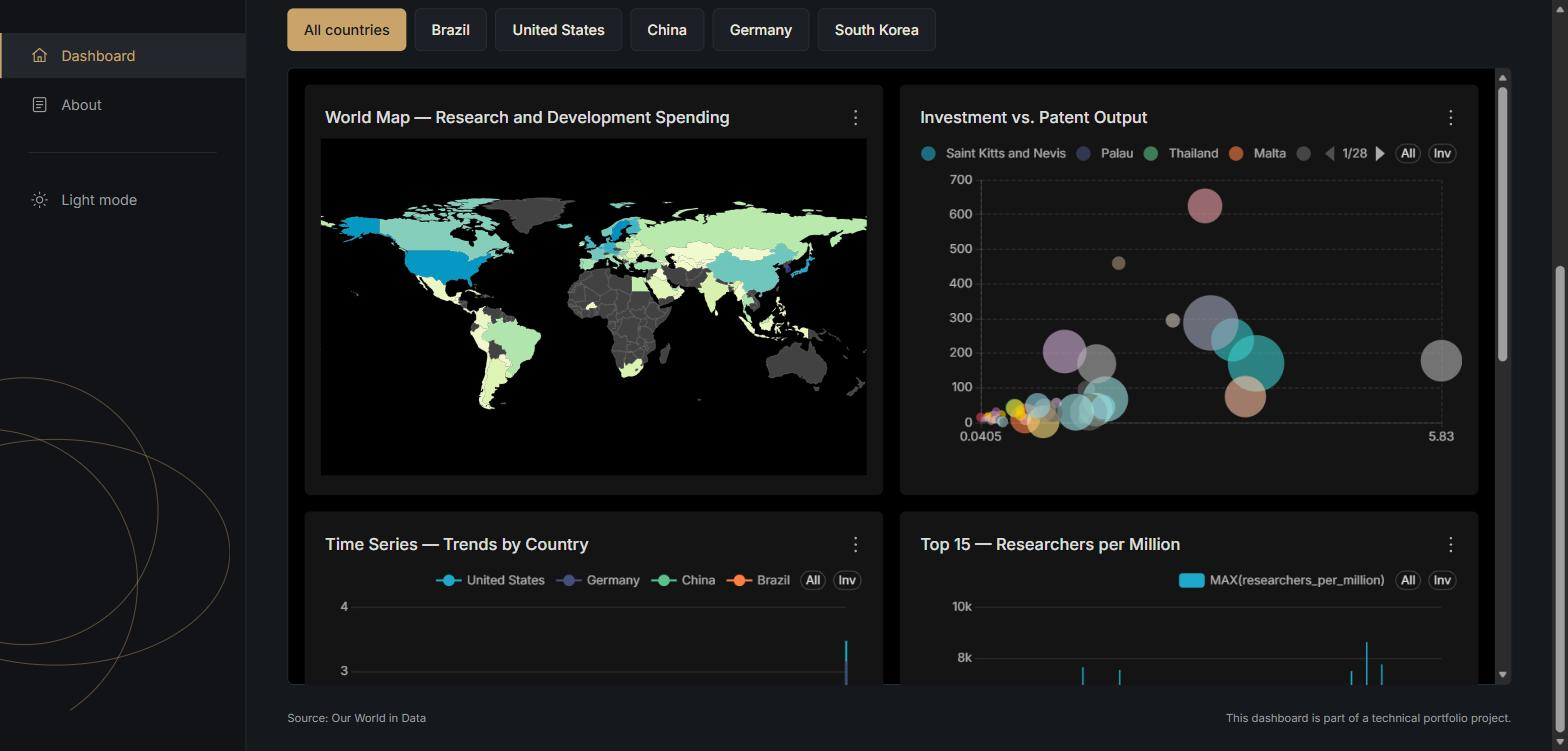
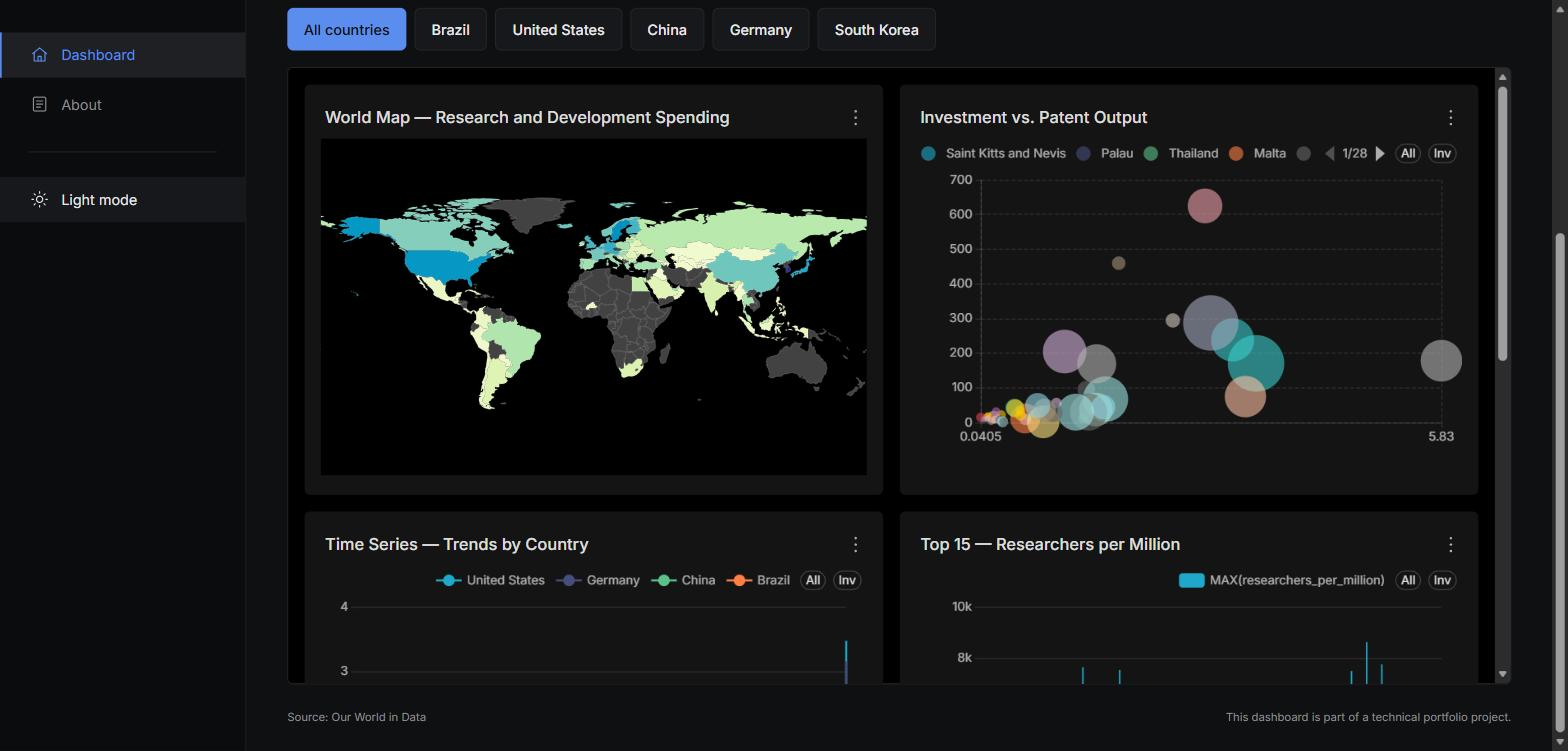
feat: updating layout and readme.md

diff --git a/frontend/src/index.css b/frontend/src/index.css
@@ -4,31 +4,29 @@
 
 :root,
 [data-theme='dark'] {
-  --canvas: #15181d;
-  --sidebar: #111317;
-  --surface: #1c2026;
-  --surface-hover: #22272e;
-  --line: #2a2f37;
-  --ink: #ece7dd;
-  --ink-muted: #9b9d9f;
-  --gold: #c9a36a;
-  --positive: #5fb88a;
-  --panel: #f4f1ea;
-  --hero: #0b0d10;
+  --canvas: #0f1012;
+  --sidebar: #0b0c0e;
+  --surface: #17181b;
+  --surface-hover: #1f2023;
+  --line: #27282c;
+  --ink: #e8e8ea;
+  --ink-muted: #8d8e92;
+  --accent: #5b8def;
+  --positive: #4fae7c;
+  --hero: #0b0c0e;
 }
 
 [data-theme='light'] {
-  --canvas: #f3f0e9;
-  --sidebar: #ebe6dc;
-  --surface: #fbf9f5;
-  --surface-hover: #e3ddd1;
-  --line: #d9d2c4;
-  --ink: #1d2025;
-  --ink-muted: #6b6a66;
-  --gold: #9c7437;
+  --canvas: #f5f1e8;
+  --sidebar: #ece6d8;
+  --surface: #faf7f0;
+  --surface-hover: #efe9db;
+  --line: #ddd4c0;
+  --ink: #1f1b16;
+  --ink-muted: #726a5c;
+  --accent: #3b63d6;
   --positive: #2f8a5c;
-  --panel: #ffffff;
-  --hero: #f1ece3;
+  --hero: #ece6d8;
 }
 
 @theme inline {
@@ -39,12 +37,10 @@
   --color-line: var(--line);
   --color-ink: var(--ink);
   --color-ink-muted: var(--ink-muted);
-  --color-gold: var(--gold);
+  --color-accent: var(--accent);
   --color-positive: var(--positive);
-  --color-panel: var(--panel);
   --color-hero: var(--hero);
   --font-sans: 'Inter', ui-sans-serif, system-ui, sans-serif;
-  --font-serif: 'Cormorant Garamond', ui-serif, Georgia, serif;
 }
 
 body {

diff --git a/frontend/src/components/home/AboutView.tsx b/frontend/src/components/home/AboutView.tsx
@@ -8,7 +8,7 @@ const STACK = [
 export function AboutView() {
   return (
     <section className="max-w-3xl">
-      <h2 className="font-serif text-3xl text-ink">About this project</h2>
+      <h2 className="text-2xl font-semibold text-ink">About this project</h2>
       <p className="mt-4 leading-relaxed text-ink-muted">
         A project on how an Apache Superset dashboard can be embedded in
         a React application. The front does not see Superset credentials, the backend requests
@@ -20,7 +20,7 @@ export function AboutView() {
           href="https://ourworldindata.org/research-and-development"
           target="_blank"
           rel="noreferrer"
-          className="text-gold underline hover:text-gold/80"
+          className="text-accent underline hover:text-accent/80"
         >
           Our World in Data — Research and Development
         </a>
@@ -29,7 +29,7 @@ export function AboutView() {
       <ul className="mt-8 divide-y divide-line rounded-md border border-line bg-surface">
         {STACK.map(({ name, role }) => (
           <li key={name} className="flex flex-col gap-1 px-5 py-4 sm:flex-row sm:gap-6">
-            <span className="w-48 shrink-0 text-sm font-medium text-gold">{name}</span>
+            <span className="w-48 shrink-0 text-sm font-medium text-accent">{name}</span>
             <span className="text-sm text-ink-muted">{role}</span>
           </li>
         ))}

diff --git a/frontend/src/components/layout/Sidebar.tsx b/frontend/src/components/layout/Sidebar.tsx
@@ -24,7 +24,7 @@ export function Sidebar({ activeView, onNavigate, theme, onToggleTheme }: Sideba
               aria-current={active ? 'page' : undefined}
               className={`flex cursor-pointer items-center gap-3 border-l-2 px-7 py-3 text-sm transition-colors ${
                 active
-                  ? 'border-gold bg-surface-hover text-gold'
+                  ? 'border-accent bg-surface-hover text-accent'
                   : 'border-transparent text-ink-muted hover:bg-surface hover:text-ink'
               }`}
             >
@@ -38,19 +38,6 @@ export function Sidebar({ activeView, onNavigate, theme, onToggleTheme }: Sideba
       <div className="mx-7 my-6 border-t border-line" />
 
       <ThemeToggle theme={theme} onToggle={onToggleTheme} />
-
-      <svg
-        className="pointer-events-none absolute -left-24 bottom-10 h-96 w-80 text-gold/40"
-        viewBox="0 0 320 384"
-        fill="none"
-        stroke="currentColor"
-        strokeWidth={1}
-        aria-hidden="true"
-      >
-        <circle cx="120" cy="190" r="130" />
-        <circle cx="80" cy="260" r="150" />
-        <ellipse cx="150" cy="230" rx="170" ry="110" />
-      </svg>
     </aside>
   )
 }

diff --git a/frontend/src/components/home/Hero.tsx b/frontend/src/components/home/Hero.tsx
@@ -1,16 +1,10 @@
 export function Hero() {
   return (
-    <section className="relative overflow-hidden border-b border-line bg-hero">
-      <div className="absolute inset-0 bg-gradient-to-r from-hero via-hero/70 to-transparent md:via-transparent" />
-      <div className="relative max-w-2xl px-4 py-10 md:max-w-[55%] sm:px-8 sm:py-12 lg:px-11">
-        <p className="text-[11px] tracking-[0.3em] text-ink-muted">
-          OUR WORLD IN DATA DASHBOARD
-        </p>
-        <p className="mt-4 max-w-xl text-[15px] leading-relaxed text-ink-muted">
-         This dashboard explores how countries invest in research and development, from spending and
-        researchers to patents and scientific output, based on Our World in Data set.
-        </p>
-      </div>
+    <section className="border-b border-line bg-hero px-4 py-8 sm:px-8 lg:px-11">
+      <p className="max-w-xl text-sm leading-relaxed text-ink-muted">
+        This dashboard explores how countries invest in research and development, from spending
+        and researchers to patents and scientific output, based on the Our World in Data set.
+      </p>
     </section>
   )
 }

diff --git a/frontend/src/components/home/IndicatorCards.tsx b/frontend/src/components/home/IndicatorCards.tsx
@@ -74,10 +74,10 @@ export function IndicatorCards() {
       {INDICATORS.map(({ label, unit, description, icon: Icon, formatValue }) => (
         <li key={label} className="rounded-md border border-line bg-surface p-5">
           <div className="flex items-center gap-4">
-            <Icon className="h-7 w-7 text-gold" />
+            <Icon className="h-7 w-7 text-accent" />
             <span className="text-sm text-ink">{label}</span>
           </div>
-          <p className="mt-4 font-serif text-3xl text-ink">
+          <p className="mt-4 text-2xl font-semibold text-ink">
             {status === 'ready' && snapshot ? formatValue(snapshot) : status === 'error' ? '—' : '···'}
             <span className="ml-2 text-base text-ink-muted">{unit}</span>
           </p>

diff --git a/frontend/src/components/ui/Button.tsx b/frontend/src/components/ui/Button.tsx
@@ -15,10 +15,10 @@ interface ButtonAsLink extends AnchorHTMLAttributes<HTMLAnchorElement> {
 type ButtonProps = ButtonAsButton | ButtonAsLink
 
 const VARIANT_CLASSES: Record<Variant, string> = {
-  primary: 'bg-gold text-canvas hover:bg-gold/90 focus-visible:outline-gold',
+  primary: 'bg-accent text-canvas hover:bg-accent/90 focus-visible:outline-accent',
   secondary:
-    'bg-surface text-ink border border-line hover:bg-surface-hover focus-visible:outline-gold',
-  ghost: 'bg-transparent text-ink-muted hover:bg-surface focus-visible:outline-gold',
+    'bg-surface text-ink border border-line hover:bg-surface-hover focus-visible:outline-accent',
+  ghost: 'bg-transparent text-ink-muted hover:bg-surface focus-visible:outline-accent',
 }
 
 const BASE_CLASSES =

diff --git a/frontend/src/components/layout/TopBar.tsx b/frontend/src/components/layout/TopBar.tsx
@@ -25,7 +25,7 @@ export function TopBar({ theme, onToggleTheme, activeView, onNavigate }: TopBarP
             onClick={() => onNavigate(view)}
             aria-current={view === activeView ? 'page' : undefined}
             className={`flex cursor-pointer items-center gap-2 rounded-md px-3 py-1.5 text-sm ${
-              view === activeView ? 'bg-surface-hover text-gold' : 'text-ink-muted'
+              view === activeView ? 'bg-surface-hover text-accent' : 'text-ink-muted'
             }`}
           >
             <Icon className="h-4 w-4" />

diff --git a/frontend/src/components/layout/ThemeToggle.tsx b/frontend/src/components/layout/ThemeToggle.tsx
@@ -18,7 +18,7 @@ export function ThemeToggle({ theme, onToggle, compact = false }: ThemeTogglePro
         type="button"
         onClick={onToggle}
         aria-label={`Switch to ${label.toLowerCase()}`}
-        className="cursor-pointer rounded-full p-2 text-ink-muted transition-colors hover:bg-surface hover:text-gold"
+        className="cursor-pointer rounded-full p-2 text-ink-muted transition-colors hover:bg-surface hover:text-accent"
       >
         <Icon className="h-5 w-5" />
       </button>

diff --git a/frontend/index.html b/frontend/index.html
@@ -6,7 +6,7 @@
     <link rel="preconnect" href="https://fonts.googleapis.com" />
     <link rel="preconnect" href="https://fonts.gstatic.com" crossorigin />
     <link
-      href="https://fonts.googleapis.com/css2?family=Cormorant+Garamond:wght@500;600&family=Inter:wght@400;500;600&display=swap"
+      href="https://fonts.googleapis.com/css2?family=Inter:wght@400;500;600;700&display=swap"
       rel="stylesheet"
     />
     <title>Global R&amp;D Indicators</title>

diff --git a/frontend/src/App.tsx b/frontend/src/App.tsx
@@ -22,12 +22,12 @@ function App() {
       />
 
       <div className="flex min-w-0 flex-1 flex-col">
-        {/* <TopBar
+        <TopBar
           theme={theme}
           onToggleTheme={toggleTheme}
           activeView={view}
           onNavigate={setView}
-        /> */}
+        />
 
         {view === 'dashboard' && <Hero />}
 
